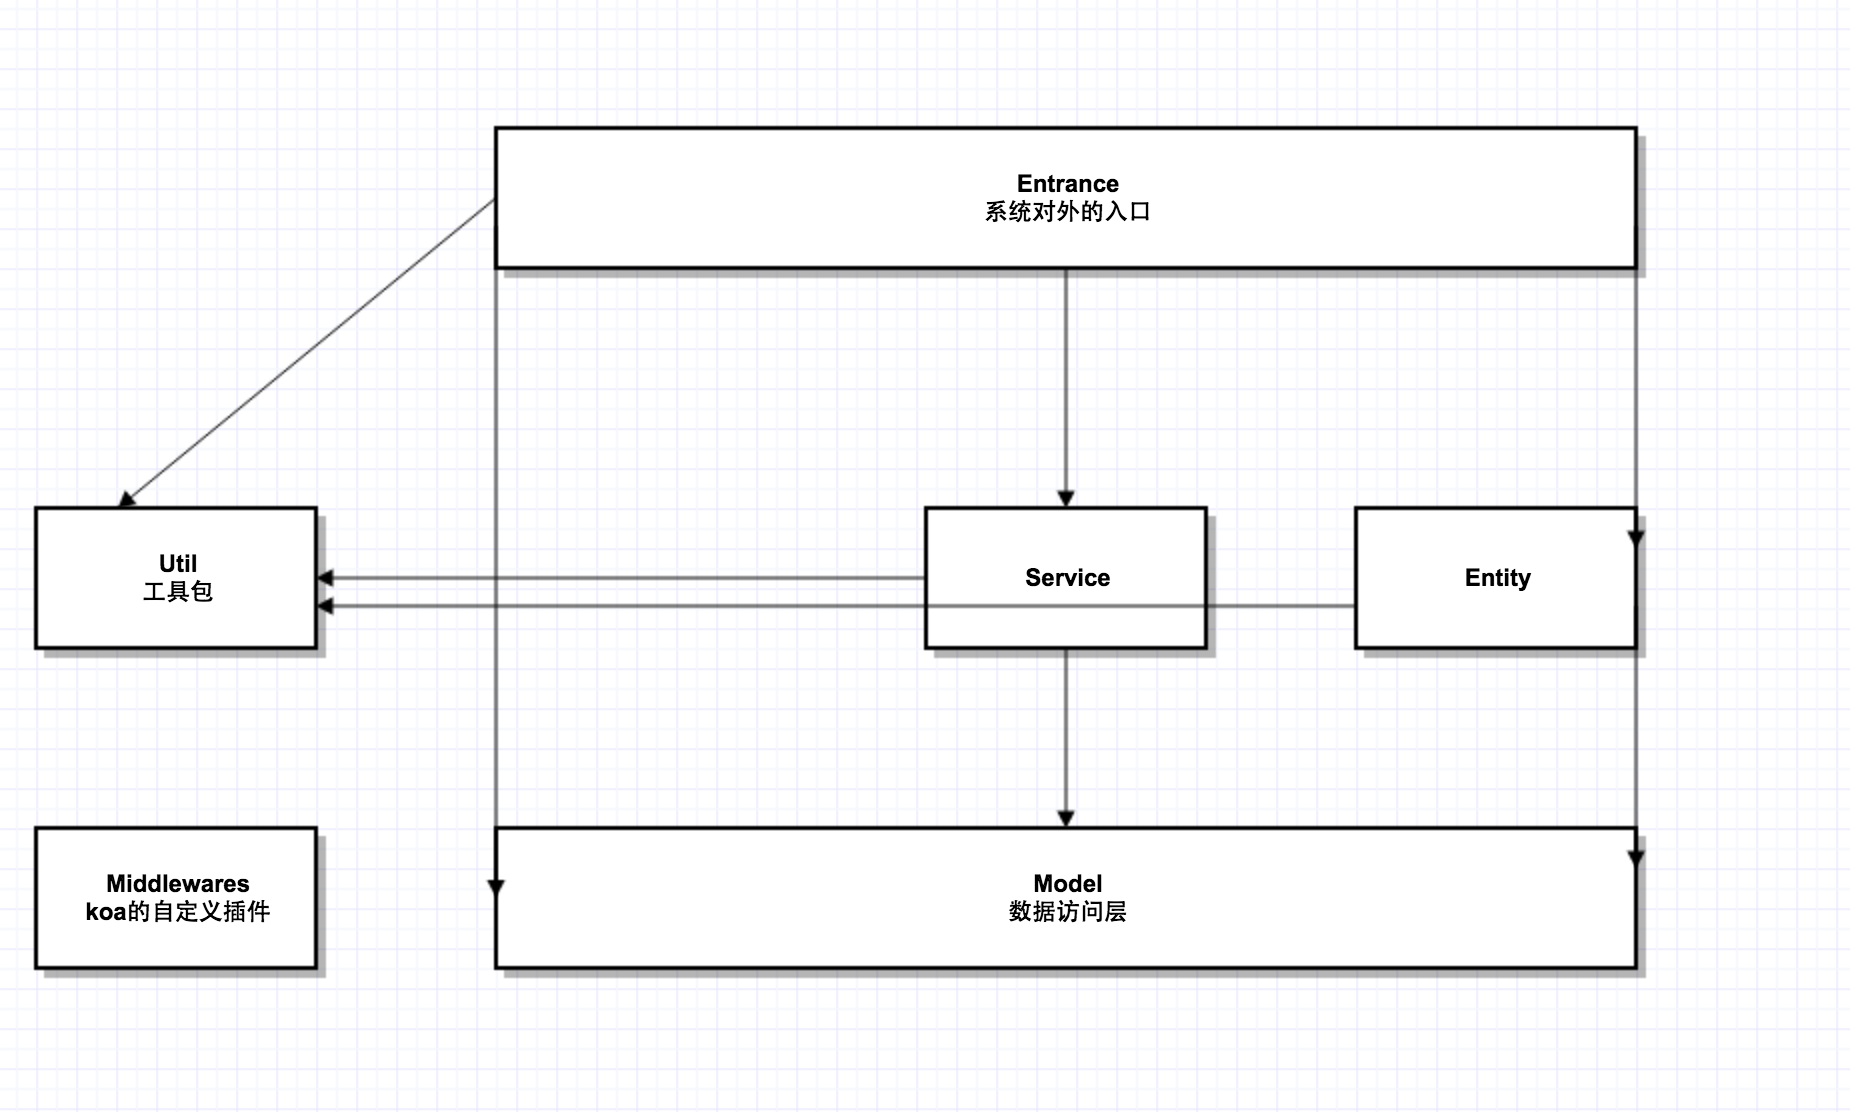
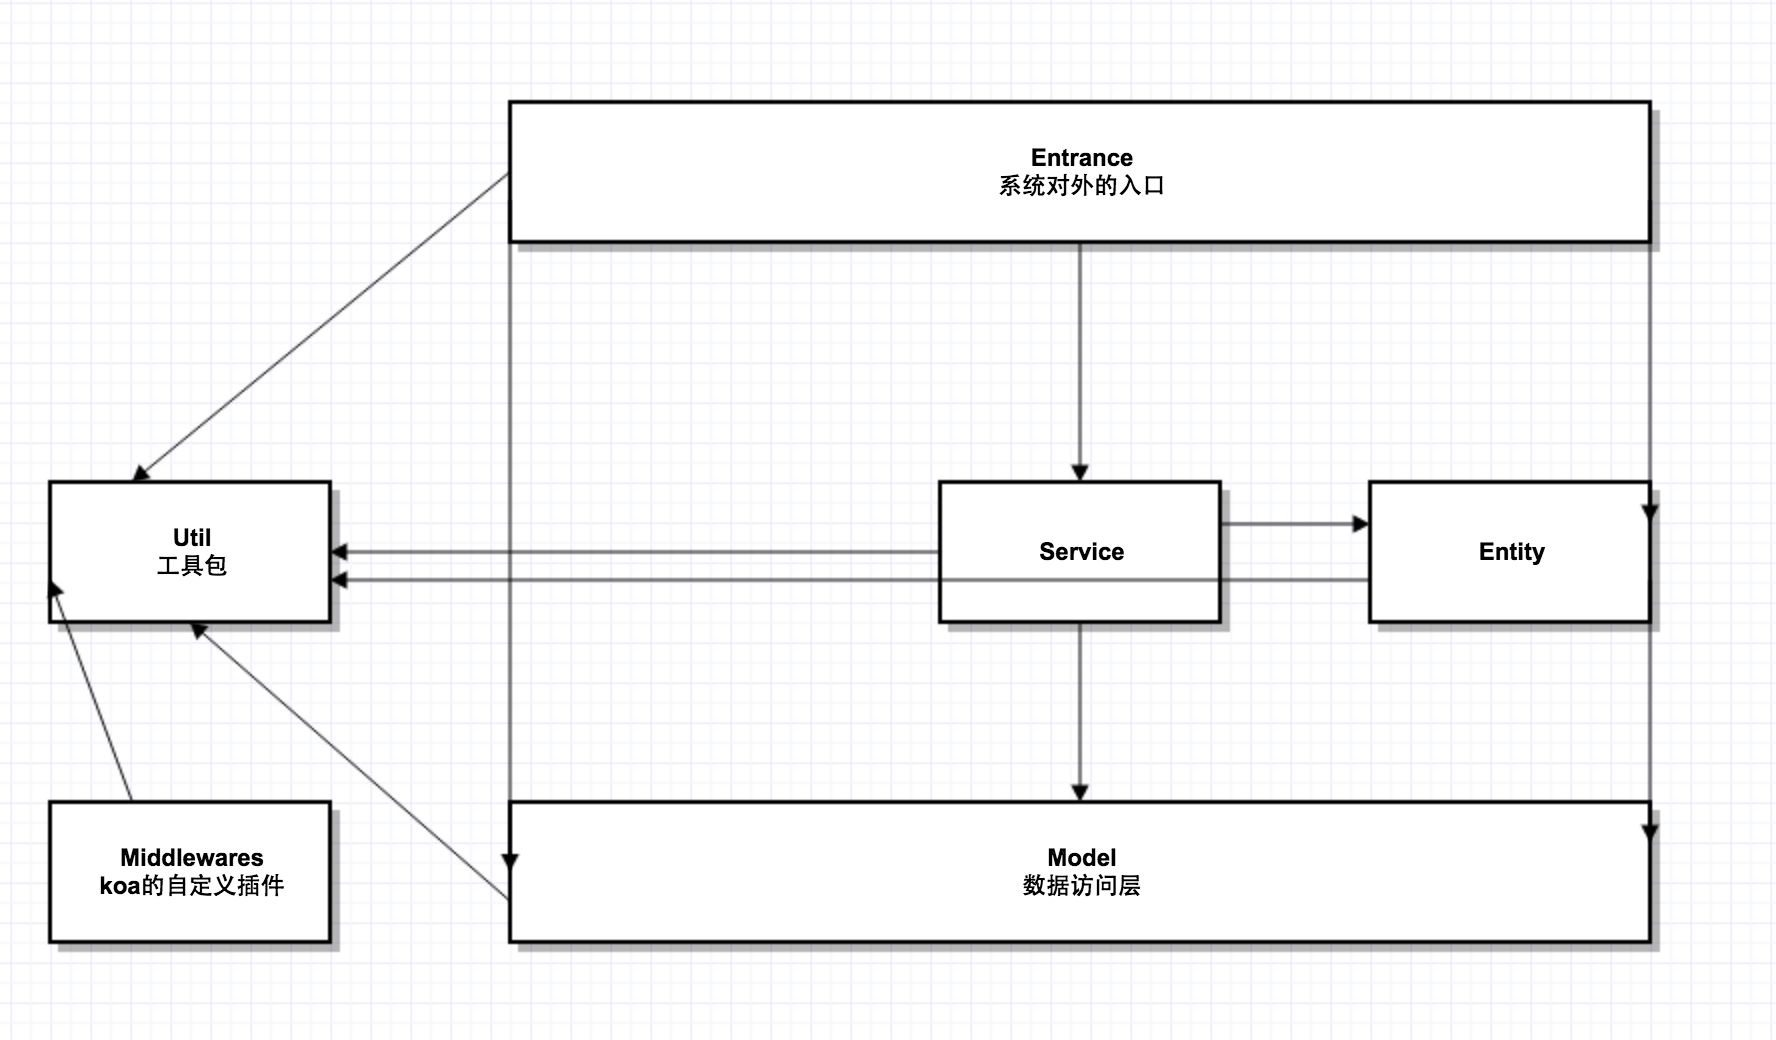
commit

diff --git a/软件工程/CRM重构白皮书.md b/软件工程/CRM重构白皮书.md
@@ -52,7 +52,25 @@
 
 ![CRM系统设计图](../pic/P6.png)
 
-名词解释：
+__名词解释：__  
+
+* Entrance是系统的对外窗口，与系统打交道必须经过Entrance。包括以下几类：
+	* API
+	* 接入系统的消息队列
+	* 自定义的系统脚本
+* —> 表示调用关系。比如，Entrance可以调用的Service。
+
+
+__说明：__  
+
+* 增加中间的业务层
+	* 造成__原有系统__混乱的原因有很多，其中一个很重要的原因就是系统层次过于粗狂
+	* __原系统__从理论上只有Entrance和Model两层
+	* 业务逻辑在Entrance中处理
+	* 不同的Entrance存在着相似的业务逻辑，这也就产生了相似的代码写两遍的问题
+	* 综上所述，本次系统增加了中间层次。目的在于对日益复杂的业务逻辑进行封装，将原来的低内聚变成高内聚
+
+
 
 
 
